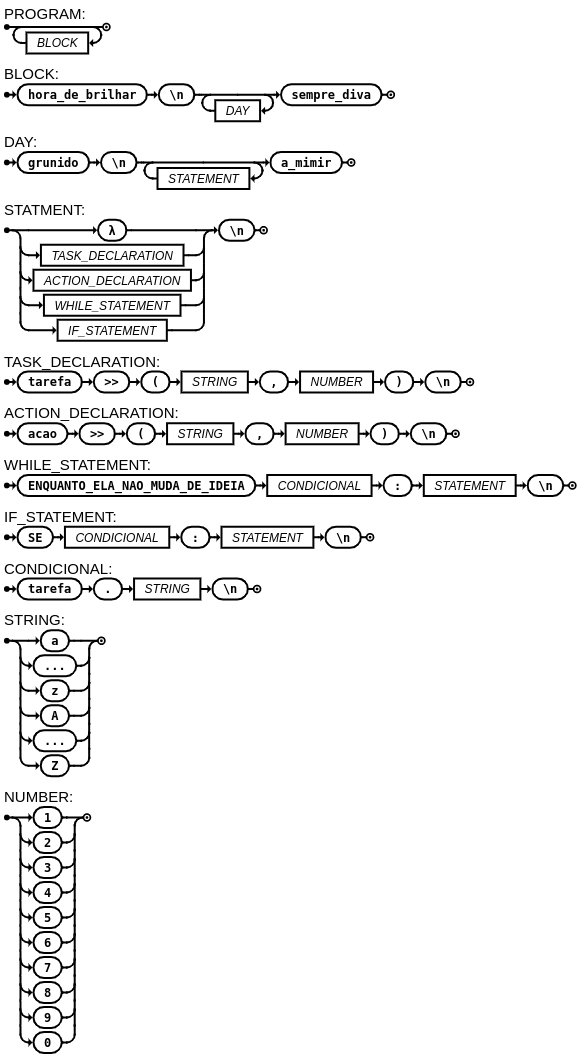
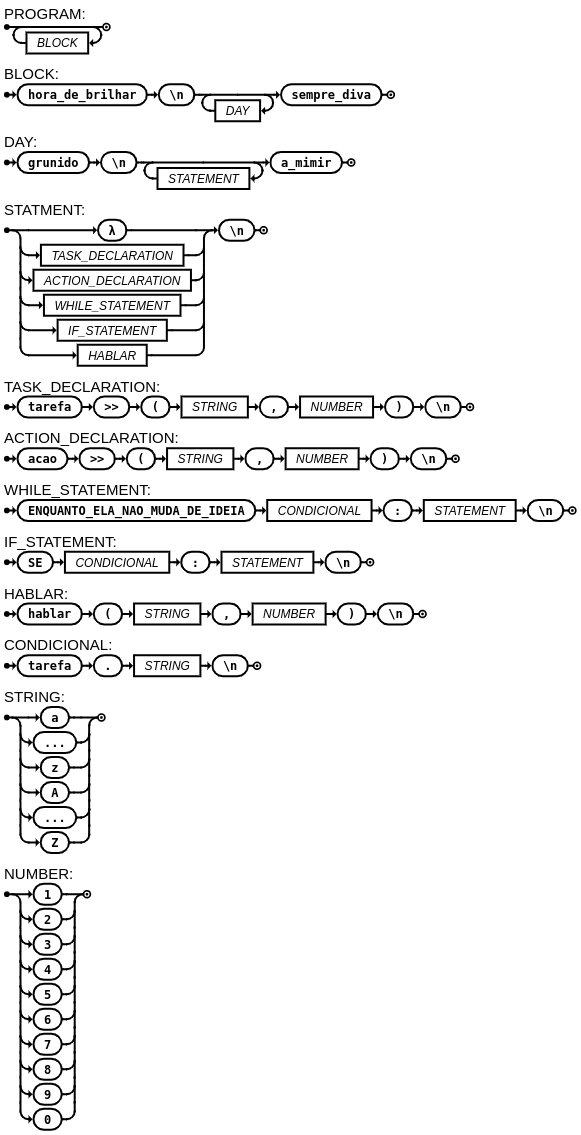
add print "hablar"

Changed region(s): [[0.0, 0.0, 0.9914, 0.9981]]

diff --git a/README.md b/README.md
@@ -44,7 +44,7 @@ BLOCK = "hora_de_brilhar", "\n", { DAY }, "sempre_diva";
 
 DAY = "grunido", "\n", { STATEMENT }, "a_mimir";
 
-STATMENT = ("λ" | TASK_DECLARATION | ACTION_DECLARATION | WHILE_STATEMENT | IF_STATEMENT), "\n";
+STATMENT = ("λ" | TASK_DECLARATION | ACTION_DECLARATION | WHILE_STATEMENT | IF_STATEMENT | HABLAR), "\n";
 
 TASK_DECLARATION = "tarefa", ">>", "(", STRING, ",", NUMBER, ")" , "\n";
 
@@ -53,6 +53,8 @@ ACTION_DECLARATION = "acao", ">>", "(", STRING, ",", NUMBER, ")", "\n";
 WHILE_STATEMENT = "ENQUANTO_ELA_NAO_MUDA_DE_IDEIA", CONDICIONAL, ":", STATEMENT, "\n";
 
 IF_STATEMENT = "SE", CONDICIONAL, ":", STATEMENT, "\n";
+
+HABLAR = "hablar", "(", STRING, ",", NUMBER, ")", "\n";
 
 CONDICIONAL = "tarefa", ".", STRING, "\n";
 
